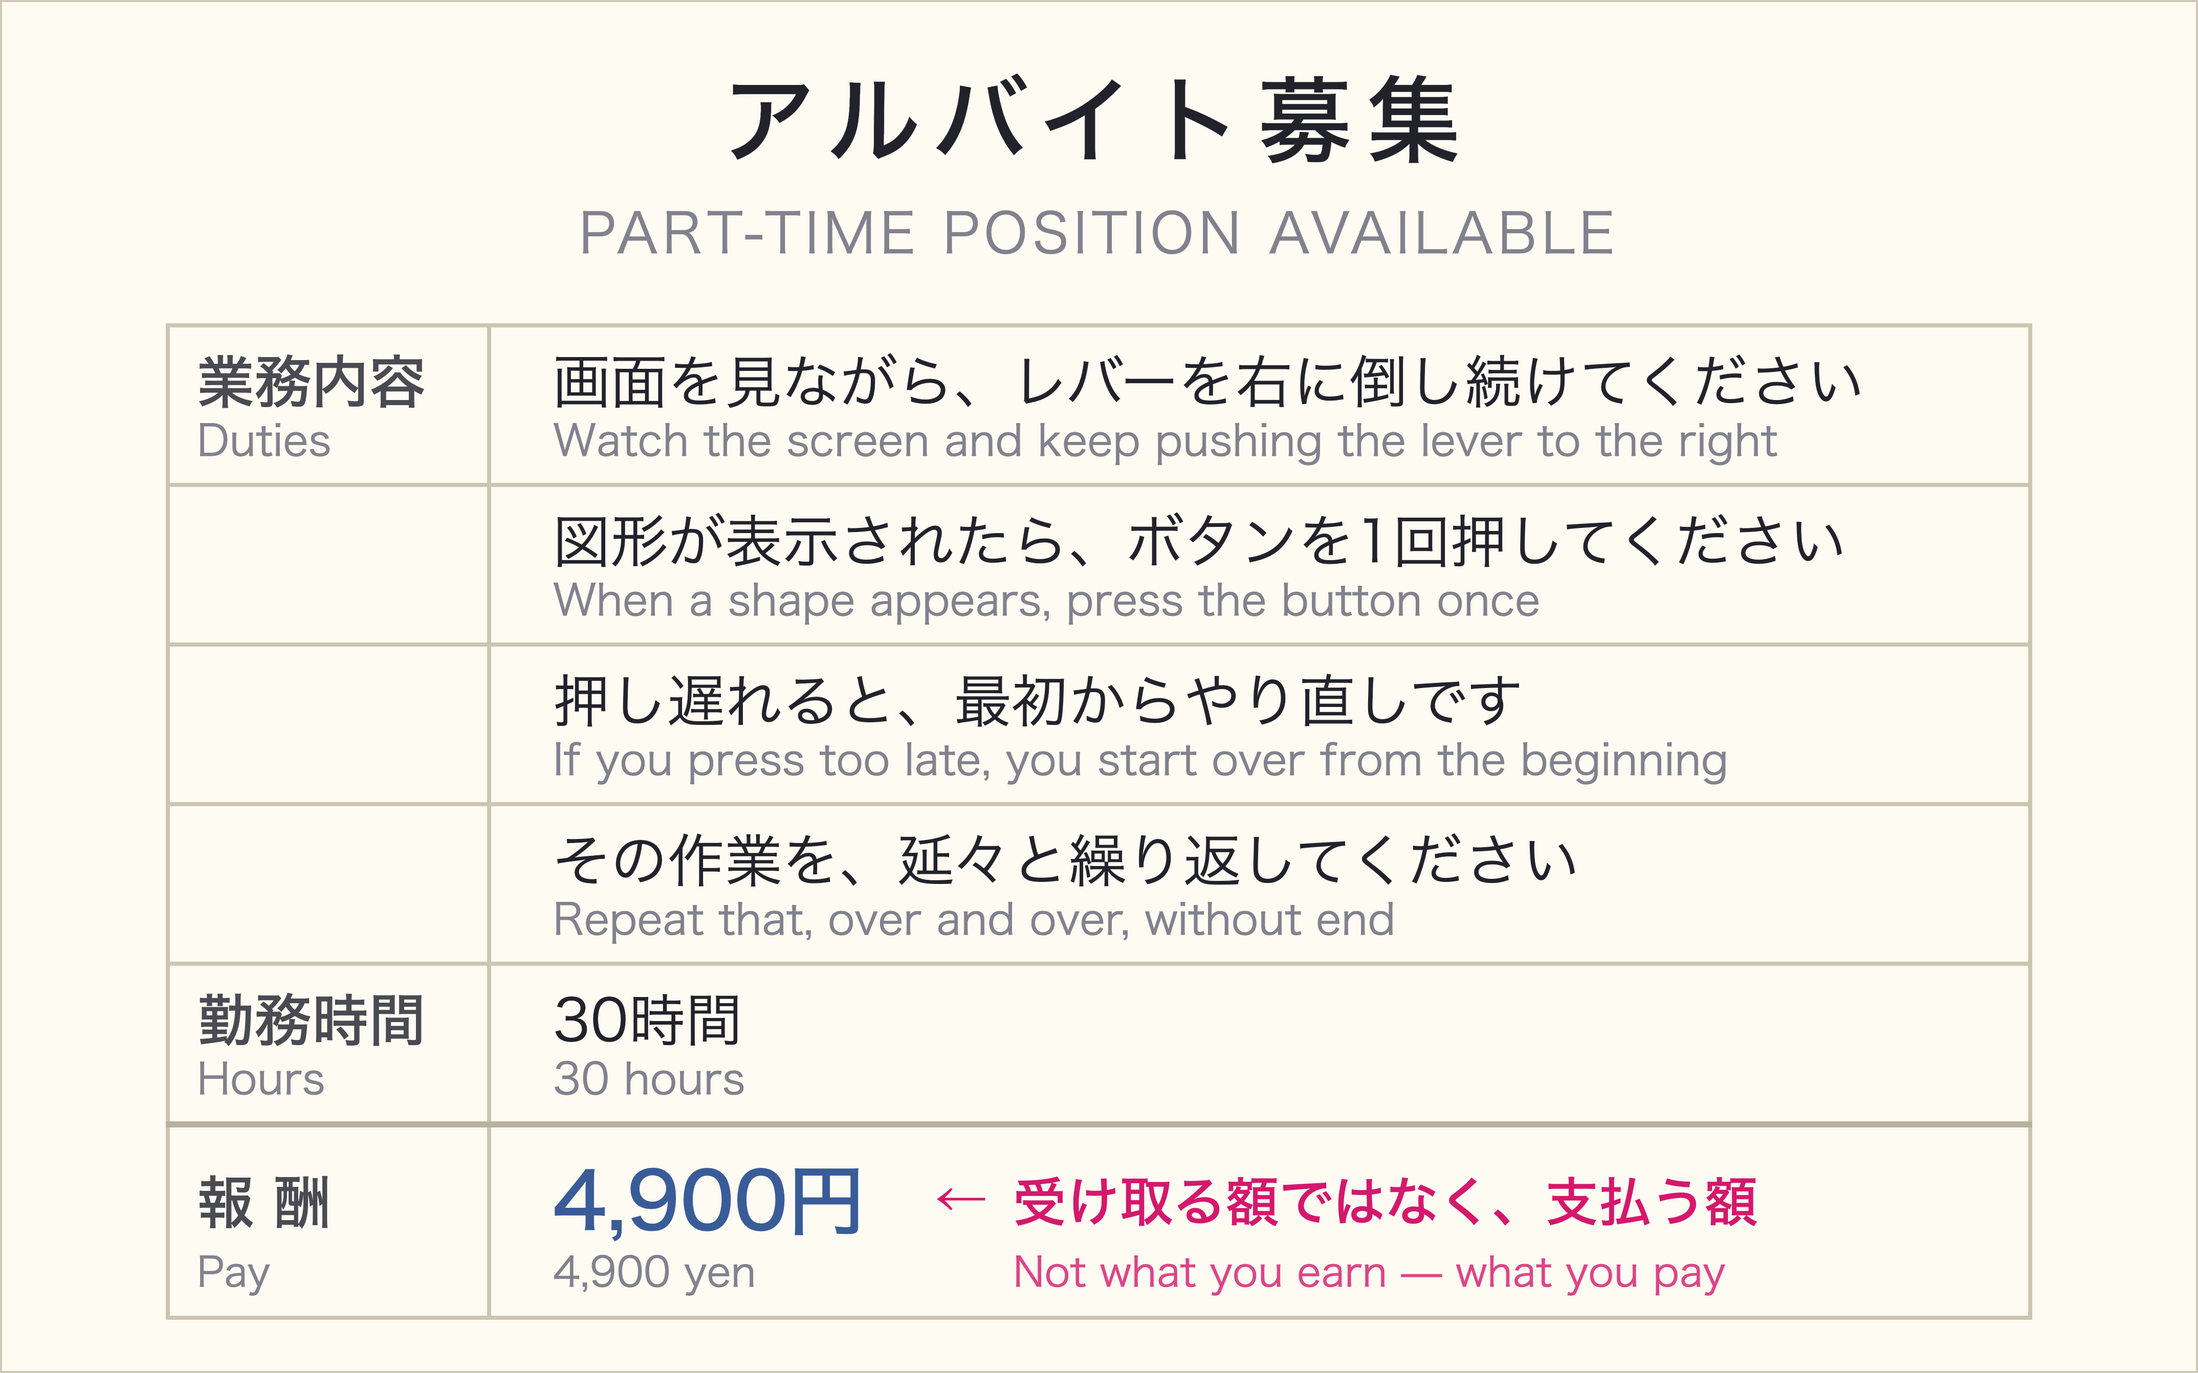
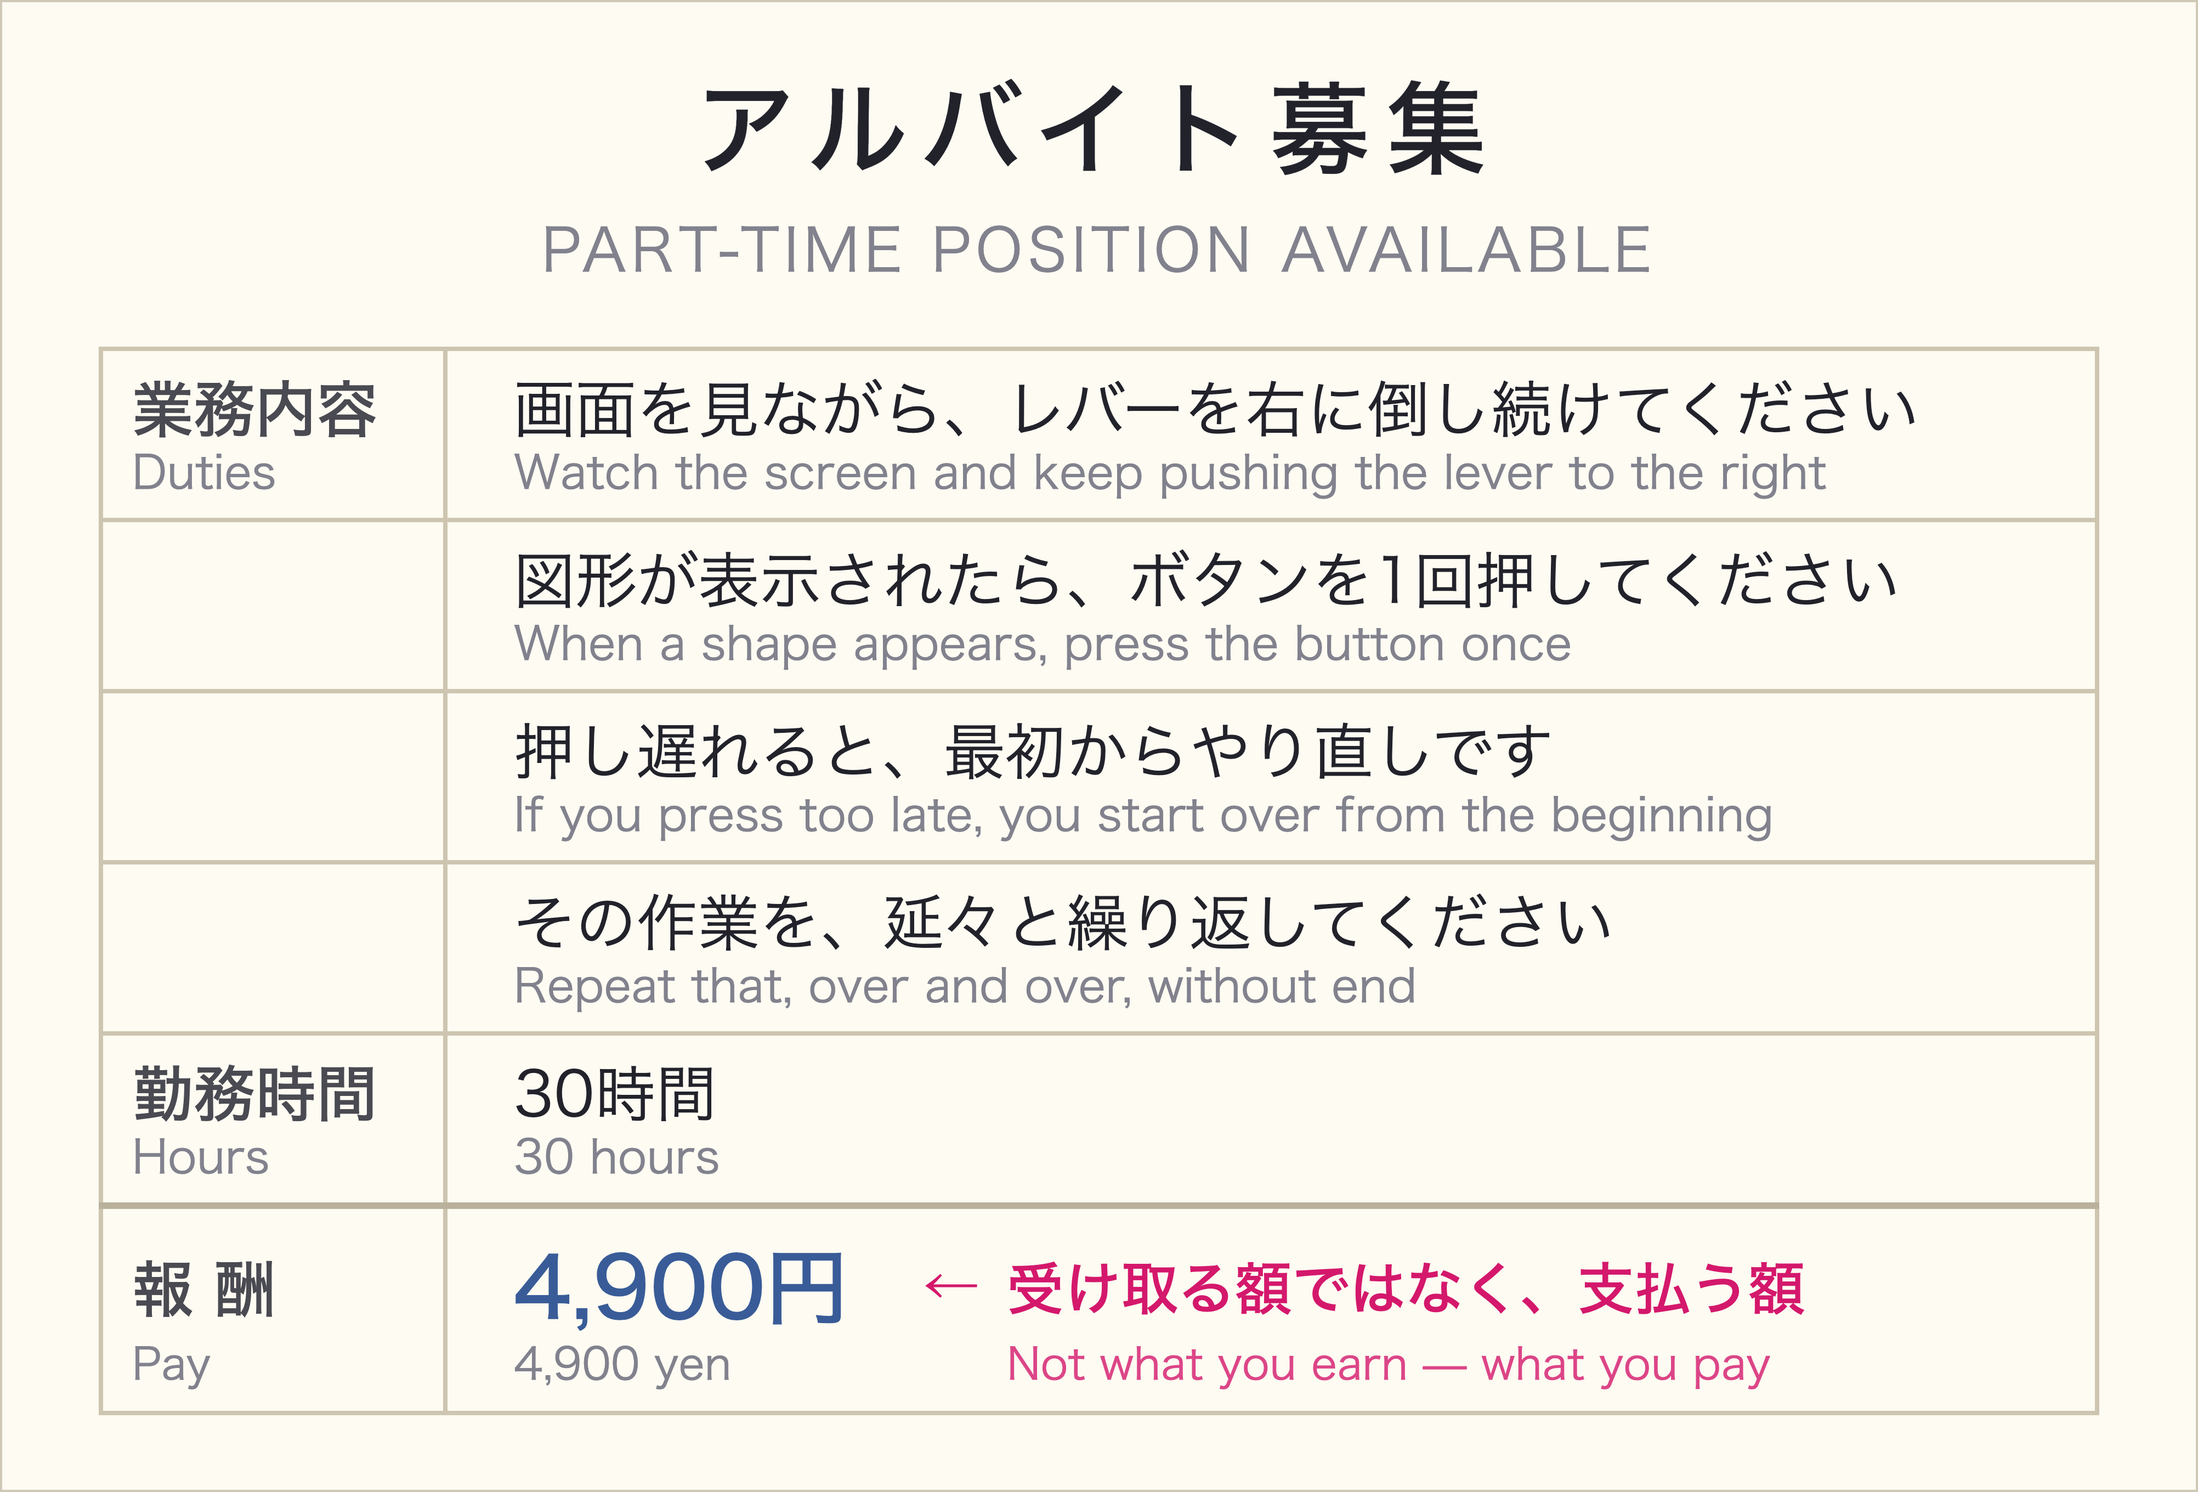
Even out the margins inside and around the job ad

diff --git a/theme/pyxel.css b/theme/pyxel.css
@@ -1927,12 +1927,13 @@ section.mock .doc {
   /* 紙は中身の幅に合わせる。全幅に伸ばすと右に空白の帯ができる */
   width: fit-content;
   max-width: 100%;
-  /* 罫→紙＝紙→住人帯＝59px の実測合わせ。
-     上の基準は罫線で descender が無いので単純均等 */
-  margin: -1px auto 0;
-  /* 縁→最初のインク（募集の字）と最後のインク→縁を同じに見せる配分。
-     見出しの行が上に約13pxの余白を持つぶん、上のpaddingは下より薄い */
-  padding: 24px 80px 25px;
+  /* 罫→紙＝紙→住人帯。上の基準は罫線で descender が無いので単純均等。
+     使える高さは罫(210)〜住人の帯(999)＝789px、紙は678pxなので上下56pxずつ */
+  margin: -5px auto 0;
+  /* 縁から中身まで、上下は34px。左右は44pxとわずかに広く取る（紙は印刷物なので、
+     表が縁に迫ると図版に見える）。上だけ padding が薄いのは、見出しの行が
+     自分で約10pxの余白を持つぶん（24＋10＝34） */
+  padding: 24px 44px 34px;
   display: flex;
   flex-direction: column;
   border: var(--bd-w) solid var(--paper-bd);
